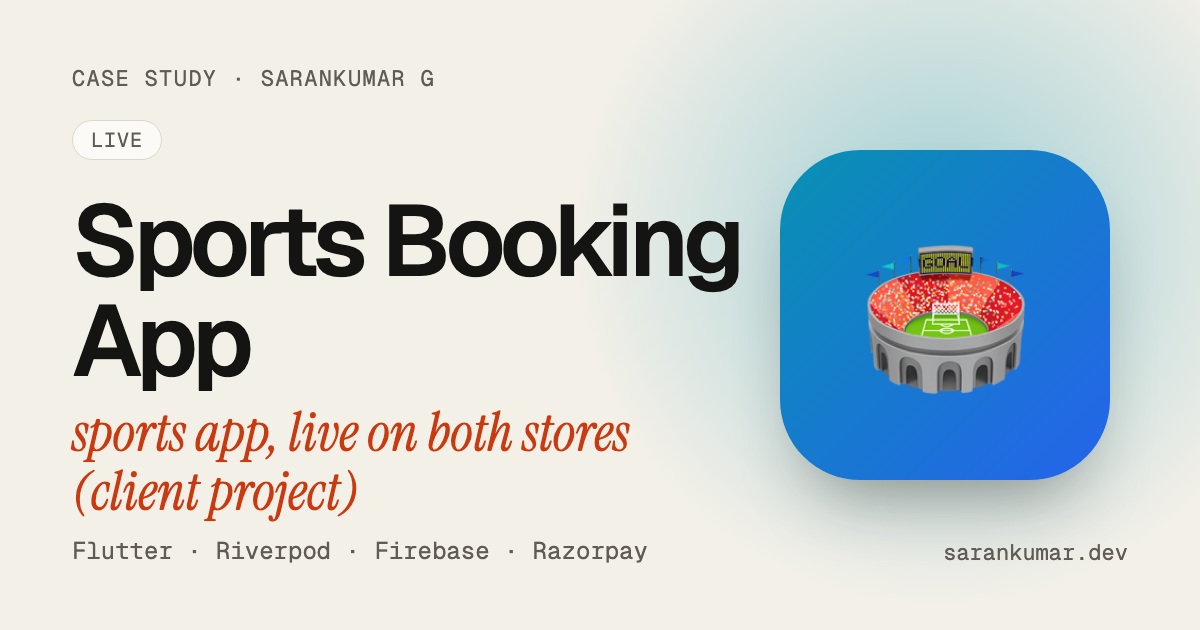
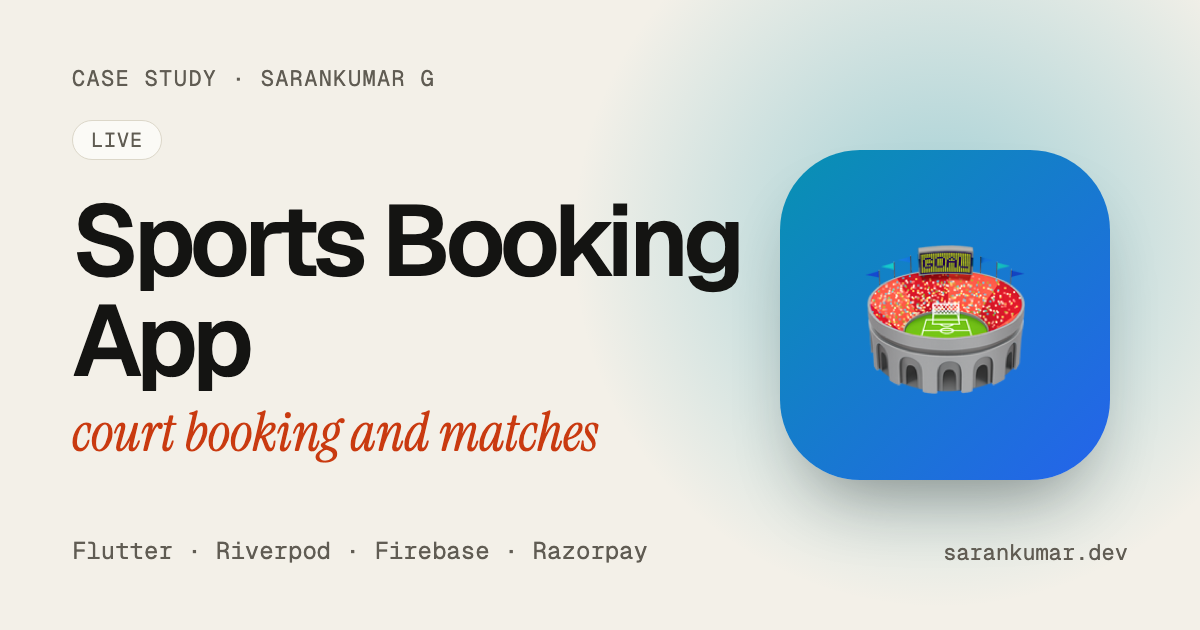
feat(ui-refresh): clearer hero, recruiter view, proof per project, no placeholders
- Headline always visible; status matches the About page
- Recruiter view page and hero button
- Proof bar under the hero; work list split into store apps and own apps,
  each with one real number instead of the stack
- Measured Lighthouse scores instead of a 95+ target
- Remove the draft tag on the home page and placeholder phones on case studies
- Hide Kili on small phones

Changed region(s): [[0.0617, 0.6333, 0.5242, 0.8143]]

diff --git a/portfolio-site/src/styles/home.css b/portfolio-site/src/styles/home.css
@@ -18,11 +18,12 @@
 h1 { font-size: clamp(38px, 7.2vw, 104px); line-height: 0.98; letter-spacing: -0.045em; font-weight: 600; margin: 28px 0; }
 h1 em { color: var(--accent-text); letter-spacing: -0.02em; font-size: 1.06em; }
 h1 .line { display: block; overflow: hidden; padding-bottom: 0.08em; margin-bottom: -0.08em; }
-h1 .line span { display: inline-block; transform: translateY(105%); animation: rise 0.9s cubic-bezier(0.2, 0.75, 0.2, 1) forwards; }
+h1 .line span { display: inline-block; animation: rise 0.7s cubic-bezier(0.2, 0.75, 0.2, 1); }
 h1 .line:nth-child(2) span { animation-delay: 0.08s; }
 h1 .line:nth-child(3) span { animation-delay: 0.16s; }
-@keyframes rise { to { transform: none; } }
-@media (prefers-reduced-motion: reduce) { h1 .line span { transform: none; } }
+/* the headline is always visible; it only slides a few pixels, so a paused animation never hides it */
+@keyframes rise { from { transform: translateY(14px); } }
+@media (prefers-reduced-motion: reduce) { h1 .line span { animation: none; } }
 .intro { font-size: 19px; color: var(--muted); max-width: 540px; }
 .intro b { color: var(--ink); font-weight: 500; }
 .cta { display: flex; gap: 12px; flex-wrap: wrap; margin-top: 32px; align-items: center; }
@@ -206,3 +207,18 @@ h1 .line:nth-child(3) span { animation-delay: 0.16s; }
 .mail small { font-family: var(--mono); font-size: 12px; color: var(--muted); border: 1px solid var(--line); border-radius: 8px; padding: 3px 8px; }
 .socials { display: flex; justify-content: center; gap: 10px; margin-top: 32px; flex-wrap: wrap; }
 .note-draft { display: inline-block; font-family: var(--mono); font-size: 11px; color: #92400e; background: #fef3c7; border: 1px dashed #d97706; border-radius: 6px; padding: 2px 8px; }
+
+/* ---------- refresh ---------- */
+.cta-time { font-family: var(--mono); font-size: 11px; color: var(--muted); margin-left: 4px; }
+.proofbar { list-style: none; padding: 18px 0 0; margin: 28px 0 0; border-top: 1px solid var(--line); display: grid; grid-template-columns: repeat(4, 1fr); gap: 12px 24px; font-size: 14px; color: var(--muted); }
+.proofbar b { display: block; font-size: 26px; letter-spacing: -0.03em; color: var(--ink); font-weight: 600; line-height: 1.1; }
+.scores { grid-template-columns: repeat(3, minmax(0, 60px)); gap: 12px; }
+.score-wrap { text-align: center; }
+.score-wrap small { display: block; font-family: var(--mono); font-size: 10.5px; color: var(--muted); margin-top: 4px; }
+.group { margin: 46px 0 0; font-size: 15px; font-weight: 500; display: flex; gap: 10px; align-items: baseline; }
+.group span { font-family: var(--mono); font-size: 12px; color: var(--muted); font-weight: 400; }
+.work { margin-top: 12px; }
+.wrow .n { font-size: 26px; font-family: inherit; }
+.wrow .st b { display: block; font-family: var(--sans, inherit); font-size: 20px; font-weight: 600; color: var(--ink); letter-spacing: -0.02em; }
+@media (max-width: 900px) { .proofbar { grid-template-columns: 1fr 1fr; } }
+@media (max-width: 640px) { .kili-hero { display: none; } }

diff --git a/portfolio-site/src/styles/pages.css b/portfolio-site/src/styles/pages.css
@@ -234,3 +234,21 @@
 .consent-actions { display: flex; gap: 10px; margin-top: 14px; flex-wrap: wrap; }
 .linklike { background: none; border: 0; padding: 0; font: inherit; color: inherit; cursor: pointer; text-decoration: underline; text-underline-offset: 3px; }
 @media (min-width: 700px) { .consent { right: auto; } }
+
+/* ---------- recruiter view ---------- */
+.rv-kicker { margin-top: 22px; color: var(--accent-text); font-size: 12.5px; }
+.rv-grid { display: grid; grid-template-columns: 1fr 1fr; gap: 40px; }
+.rv section { margin-top: 48px; }
+.rv-h { font-size: 15px; font-weight: 500; display: flex; gap: 10px; align-items: baseline; margin-bottom: 12px; }
+.rv-h span { font-family: var(--mono); font-size: 12px; color: var(--muted); font-weight: 400; }
+.rv-list div { display: grid; grid-template-columns: 150px 1fr; gap: 14px; padding: 12px 0; border-top: 1px solid var(--line); }
+.rv-list dt { font-family: var(--mono); font-size: 12.5px; color: var(--muted); padding-top: 3px; }
+.rv-list dd { margin: 0; color: var(--muted); font-size: 15px; }
+.rv-list dd b { display: block; color: var(--ink); font-weight: 500; font-size: 16px; }
+.rv-apps { list-style: none; padding: 0; margin: 0; border-top: 1px solid var(--line); }
+.rv-apps a { display: grid; grid-template-columns: 200px 1fr auto; gap: 16px; padding: 14px 0; border-bottom: 1px solid var(--line); align-items: baseline; }
+.rv-apps a:hover b { color: var(--accent-text); }
+.rv-apps b { font-weight: 500; }
+.rv-apps span { color: var(--muted); font-size: 15px; }
+.rv-apps em { font-style: normal; font-family: var(--mono); font-size: 12.5px; white-space: nowrap; }
+@media (max-width: 820px) { .rv-grid { grid-template-columns: 1fr; gap: 0; } .rv-apps a { grid-template-columns: 1fr; gap: 4px; } .rv-list div { grid-template-columns: 1fr; gap: 2px; } }

diff --git a/portfolio-site/src/content.config.ts b/portfolio-site/src/content.config.ts
@@ -23,6 +23,8 @@ const projects = defineCollection({
     tags: z.array(z.enum(['mobile', 'web', 'backend'])),
     /** only numbers that can be checked in the repo or its docs */
     numbers: z.array(z.object({ value: z.string(), label: z.string() })).default([]),
+    /** the one number shown next to the project in lists */
+    proof: z.object({ value: z.string(), label: z.string() }).optional(),
     architecture: z
       .object({
         title: z.string(),

diff --git a/portfolio-site/src/content/projects/sports-booking-app.md b/portfolio-site/src/content/projects/sports-booking-app.md
@@ -1,6 +1,6 @@
 ---
 name: Sports Booking App
-kind: sports app, live on both stores (client project)
+kind: court booking and matches
 summary: A sports app for booking courts, joining matches and managing player profiles, live on Google Play and the App Store. I built the Flutter app and its Firebase, push-notification and payment integrations.
 role: Mobile application developer, responsible for the Flutter app across its development lifecycle
 status: live
@@ -16,6 +16,7 @@ emoji: "🏟"
 c1: "#0891b2"
 c2: "#2563eb"
 order: 1
+proof: { value: "2 stores", label: "live on Play and App Store" }
 tags: [mobile, backend]
 links:
   - { label: "Google Play", url: "https://play.google.com/store/apps/details?id=com.raq.sportz" }

diff --git a/portfolio-site/src/content/projects/weather-monitoring-app.md b/portfolio-site/src/content/projects/weather-monitoring-app.md
@@ -1,6 +1,6 @@
 ---
 name: Weather Monitoring App
-kind: weather monitoring app, live on both stores (client project)
+kind: weather data and alerts
 summary: A weather and environmental monitoring app associated with a government environmental authority, live on Google Play and the App Store. I worked on its Flutter features, including data dashboards, station maps and push alerts.
 role: Flutter developer, working on specific features of the app
 status: live
@@ -16,6 +16,7 @@ emoji: "🌦"
 c1: "#0ea5e9"
 c2: "#22c55e"
 order: 2
+proof: { value: "PDF + CSV", label: "data export" }
 tags: [mobile]
 links:
   - { label: "Google Play", url: "https://play.google.com/store/apps/details?id=com.jawo.fea.gov.ae" }

diff --git a/portfolio-site/src/content/projects/clean-scanner.md b/portfolio-site/src/content/projects/clean-scanner.md
@@ -14,6 +14,7 @@ emoji: "📄"
 c1: "#0ea58f"
 c2: "#22d3b6"
 order: 7
+proof: { value: "42.5 / 60 MB", label: "size budget" }
 tags: [mobile]
 numbers:
   - { value: "42.5 MB", label: "app size at last check, 60 MB budget" }

diff --git a/portfolio-site/src/content/projects/coin18.md b/portfolio-site/src/content/projects/coin18.md
@@ -14,6 +14,7 @@ emoji: "🪙"
 c1: "#ffb020"
 c2: "#ff7a1a"
 order: 6
+proof: { value: "300 KB → 2 KB", label: "per response" }
 tags: [mobile, backend]
 numbers:
   - { value: "60-300 s", label: "cache lifetimes" }

diff --git a/portfolio-site/src/content/projects/nallhub.md b/portfolio-site/src/content/projects/nallhub.md
@@ -15,6 +15,7 @@ emoji: "🏫"
 c1: "#ff6a3d"
 c2: "#ff3d77"
 order: 5
+proof: { value: "447", label: "tests passing" }
 tags: [mobile, web, backend]
 numbers:
   - { value: "447", label: "automated tests passing" }

diff --git a/portfolio-site/src/content/projects/finwise.md b/portfolio-site/src/content/projects/finwise.md
@@ -15,6 +15,7 @@ emoji: "💸"
 c1: "#2bb673"
 c2: "#0e8a7a"
 order: 3
+proof: { value: "300+", label: "automated tests" }
 tags: [mobile, web]
 numbers:
   - { value: "300+", label: "automated tests" }

diff --git a/portfolio-site/src/content/projects/nirai.md b/portfolio-site/src/content/projects/nirai.md
@@ -15,6 +15,7 @@ emoji: "✅"
 c1: "#4f7bff"
 c2: "#7a4dff"
 order: 4
+proof: { value: "0", label: "servers to run" }
 tags: [mobile]
 numbers:
   - { value: "38", label: "specified features" }
